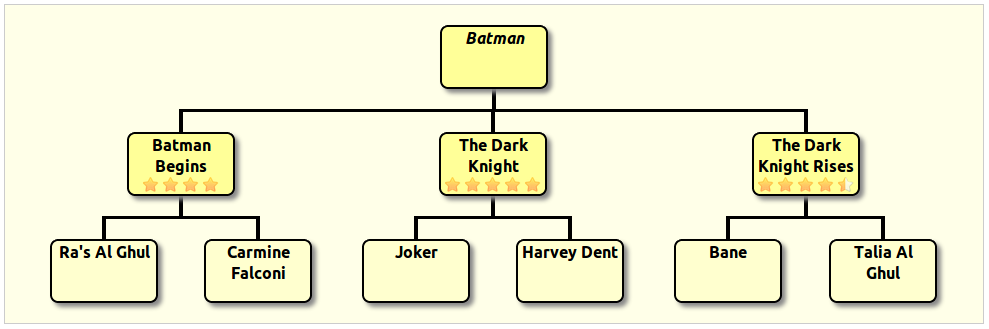
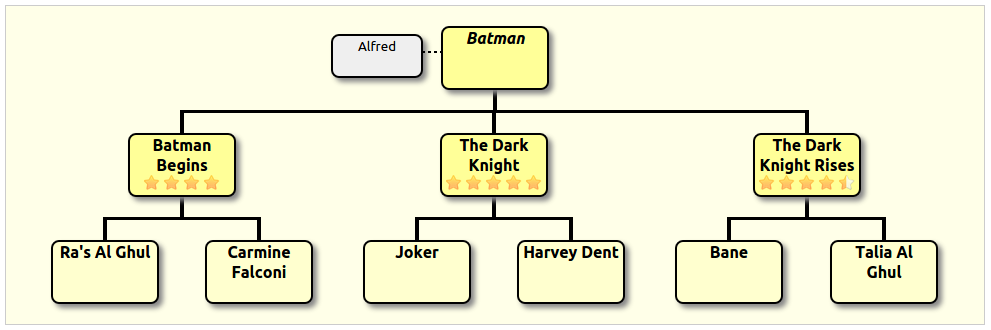
Update demo to show adjunct.

diff --git a/demo/simple.html b/demo/simple.html
@@ -19,7 +19,7 @@
         <div id="left">
 
             <ul id="organisation">
-                <li><em>Batman</em>
+                <li><adjunct>Alfred</adjunct><em>Batman</em>
                     <ul>
                         <li>Batman Begins<br/>
                             <img class="star" src="star-one.png">
@@ -56,16 +56,16 @@
                     </ul>
                 </li>
             </ul>
-        
+
         </div>
 
         <div id="content">
-        
+
             <h1>JQuery/CSS Organisation Chart</h1>
-        
+
             <div id="main">
             </div>
-            
+
             <div class="text">
                 <h2>JQuery</h2>
                 <pre>
@@ -74,7 +74,7 @@ $("#organisation").orgChart({container: $("#main")});
             </div>
 
         </div>
-            
+
   </body>
 
 </html>
